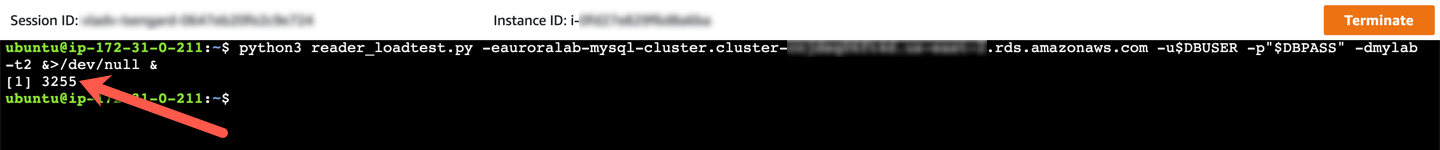
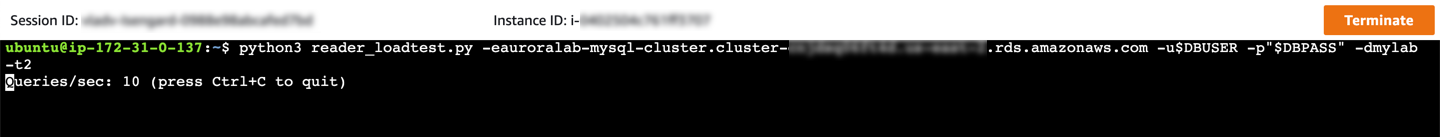
Bug fixes, added GDB EE module ID

diff --git a/scripts/das_reader.py b/scripts/das_reader.py
@@ -90,7 +90,6 @@ def track_analytics():
             # Errors in tracker interaction should not prevent operation of the function in critical path
             print("[ERROR]", e)
 
-
 # Function to decrypt the payload
 def decrypt_payload(payload, data_key):
     my_key_provider = MyRawMasterKeyProvider(data_key)
@@ -105,7 +104,6 @@ def decrypt_decompress(payload, key):
     decrypted = decrypt_payload(payload, key)
     return zlib.decompress(decrypted, zlib.MAX_WBITS + 1)
 
-
 # Invoke tracking function
 track_analytics()
 
@@ -114,13 +112,26 @@ session = boto3.session.Session(region_name=args.region_name)
 kms = session.client('kms')
 kinesis = session.client('kinesis')
 
+# Spinny thing
+spinner_items = ['|', '/', '-', '\\']
+spinner_idx = 0
+spinner_was_active = False
+spinner_last_update = 0
+
 try:
     # Get stream information
     response = kinesis.describe_stream(StreamName=args.stream_name)
     shard_iters = []
     for shard in response['StreamDescription']['Shards']:
         # Use ShardIteratorType=TRIM_HORIZON to display all messages
-        shard_iter_response = kinesis.get_shard_iterator(StreamName=args.stream_name, ShardId=shard['ShardId'], ShardIteratorType='TRIM_HORIZON') 
+        # Use ShardIteratorType=LATEST to get most current data
+        # Use ShardIteratorType=AT_TIMESTAMP with timestamp 5 minutes ago to just get newer data
+        shard_iter_response = kinesis.get_shard_iterator(
+            StreamName=args.stream_name,
+            ShardId=shard['ShardId'],
+            ShardIteratorType='AT_TIMESTAMP',
+            Timestamp=datetime.datetime.utcnow() - datetime.timedelta(minutes=5)
+        ) 
         shard_iters.append(shard_iter_response['ShardIterator'])
 
     # Traverse shard iterators and get records
@@ -149,8 +160,28 @@ try:
                     for event in das_event["databaseActivityEventList"]:
                         # Should we exclude events generated by the service itself (monitoring, health checks)?
                         if args.filter_service:
+                            # Matching event found?
                             if ("dbUserName" in event and len(event["dbUserName"]) > 0 and event["dbUserName"] != "rdsadmin"):
-                                print(json.dumps(event))
+                                # Print event, use sys.stdout.write to account for progress indicator
+                                sys.stdout.write(json.dumps(event))
+                                sys.stdout.write("\n")
+                                sys.stdout.flush()
+
+                                # Progress indicator was not active
+                                if spinner_was_active:
+                                    spinner_was_active = False
+                            
+                            # Otherwise, just show a spinner ever 1/2 sec
+                            else:
+                                # Progress indicator output
+                                if spinner_was_active == False or (time.time() - spinner_last_update)*1000 > 500:
+                                    sys.stdout.write("%s\r"%spinner_items[spinner_idx])
+                                    sys.stdout.flush()
+                                    spinner_was_active = True
+                                    spinner_idx += 1
+                                    if spinner_idx > 3:
+                                        spinner_idx = 0
+                                    spinner_last_update - time.time()
                         
                         # If no exclusion, print all events
                         else:

diff --git a/docs/provisioned/das/index.md b/docs/provisioned/das/index.md
@@ -115,17 +115,19 @@ You will use a read-only workload to generate load on the DB cluster. This [read
 If you are not already connected to the Session Manager workstation command line, please connect [following these instructions](/prereqs/connect/). Once connected, run the command below, replacing the ==[clusterEndpoint]== placeholder with the appropriate value from your CloudFormation stack outputs, or Event Engine Team Dashboard if you are participating in an organized workshop.
 
 ```shell
-python3 reader_loadtest.py -e[clusterEndpoint] -u$DBUSER -p"$DBPASS" -dmylab -t2 &>/dev/null &
+python3 reader_loadtest.py -e[clusterEndpoint] -u$DBUSER -p"$DBPASS" -dmylab -t2
 ```
 
-You are running this command in the background, please note down the **process ID/number** that was assigned to it, you will need it later to stop the load test.
-
 <span class="image">![SSM Command](ssm-command-loadtest.png?raw=true)</span>
+
+You can quit the load generator script at any time by pressing `Ctrl+C`.
 
 
 ## 4. Read activity from the stream
 
-You will use an [activity stream consumer script](/scripts/das_reader.py) to read the events from the activity stream and print them on the command line. Execute the command below, replacing the ==[resourceId]== and ==[streamName]== placeholders with the appropriate **Resource ID** and **Stream Name** values you retrieved above, after the activity stream was enabled.
+You will use an [activity stream consumer script](/scripts/das_reader.py) to read the events from the activity stream and print them on the command line. 
+
+You will need to open an additional command line session to your Session Manager workstation, to see the activity events produced by the load generator you are running in the other session. See [Connect to the Session Manager](/prereqs/connect/), for steps how to create a new Session Manager command line session (if you don't already have one active from previous labs). Execute the command below in this new session, replacing the ==[resourceId]== and ==[streamName]== placeholders with the appropriate **Resource ID** and **Stream Name** values you retrieved above, after the activity stream was enabled.
 
 ```shell
 python3 das_reader.py -i [resourceId] -s [streamName]
@@ -174,15 +176,9 @@ Your output should look similar to the following example:
 ```
 
 
-## 5. Disable Database Activity Streams the activity stream
+## 5. Disable Database Activity Streams
 
-Before you disable the activity stream, stop the load generator script from running. On the command line, stop the DAS event reader script by typing `Ctrl+C`, then issue the following command, replacing the ==[processId]== placeholder with the **process ID/number** you noted down when you started the load generator script (if you no longer have that value you can try using `%1` instead):
-
-```shell
-kill [processId]
-```
-
-Next, open the <a href="https://console.aws.amazon.com/rds/home?#database:id=auroralab-mysql-cluster;is-cluster=true" target="_blank">Amazon RDS service console at the cluster details page</a>, if not already open. If the cluster is not already selected, choose **Databases** and click on the DB identifier with the cluster named `auroralab-mysql-cluster`.
+Open the <a href="https://console.aws.amazon.com/rds/home?#database:id=auroralab-mysql-cluster;is-cluster=true" target="_blank">Amazon RDS service console at the cluster details page</a>, if not already open. If the cluster is not already selected, choose **Databases** and click on the DB identifier with the cluster named `auroralab-mysql-cluster`.
 
 Click on the **Actions** dropdown, and select **Stop activity stream**.
 

diff --git a/docs/global/failover/index.md b/docs/global/failover/index.md
@@ -16,7 +16,7 @@ This lab requires the following prerequisites:
 * [Deploy an Aurora Global Database](/global/deploy/)
 
 
-1. Inject a failure in the primary region
+## 1. Inject a failure in the primary region
 
 If you are not already connected to the Session Manager workstation command line, please connect [following these instructions](/prereqs/connect/) in the **primary region**. Once connected, run the command below, replacing the ==[clusterEndpont]== placeholder with the cluster endpoint of your DB cluster.
 
@@ -68,7 +68,7 @@ Select all subnets that begin with this name prefix. You can also simply use the
 
 Once associated, the NACL rules take effect immediately and will render the resources within the private subnets unreachable. Your connection to the database in the Session Manager command line should eventually break with an error message indicating that the client lost connection to the server.
 
-## Promote Secondary DB Cluster
+## 2. Promote the secondary DB cluster
 
 You are simulating a prolonged regional infrastructure or service level failure, at which point, you would typically opt to perform a regional failover to your DR site for your application and database stacks. Next, you will promote the **secondary DB cluster**, in the **secondary region** to an independent regional DB cluster.
 

diff --git a/docs/global/failback/index.md b/docs/global/failback/index.md
@@ -60,7 +60,7 @@ The objective is to *fail back*, which means restoring an equivalent to the orig
 In the **primary region**, add a region (**Actions** --> **Add Region**) for the DB cluster you have just promoted named `auroralab-mysql-restored`. Select the secondary region to add to this new Global Database, utilizing the existing VPC, security group, parameter groups (instance and cluster), and role settings. Name the DB cluster `auroralab-mysql-new-secondary` and name the DB instance `auroralab-mysql-node5`. Name the Global Database identifier as `auroralabs-mysql-global` (assuming you have deleted the old global cluster construct adter detaching the original primary cluster, if not name it something else).
 
 
-## 7. Delete the old secondary DB cluster
+## 6. Delete the old secondary DB cluster
 
 In the secondary region, you can now delete the old secondary DB cluster, named `auroralab-mysql-secondary`. Now you should have an Aurora Global Database with one *primary DB cluster* in your **primary region** and a *secondary DB cluster* in the **secondary region**.
 
